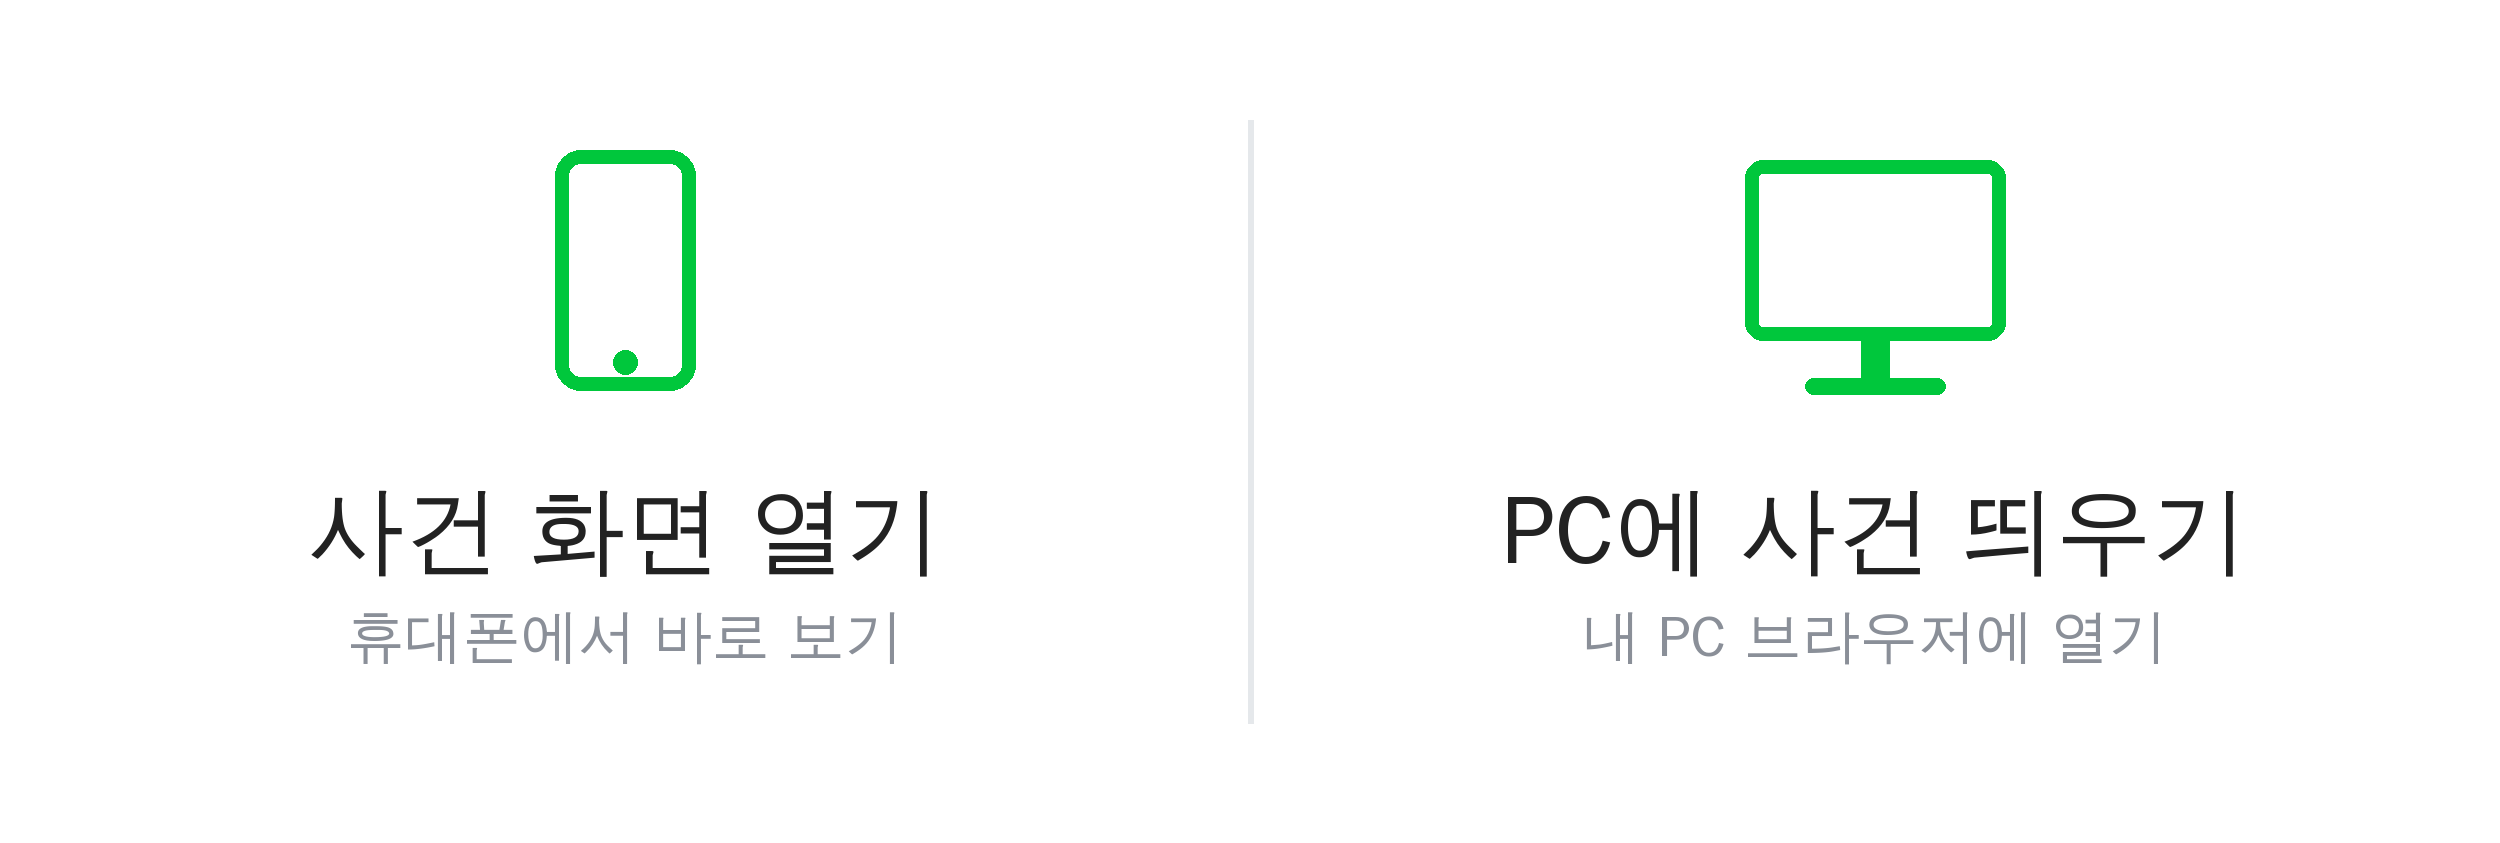
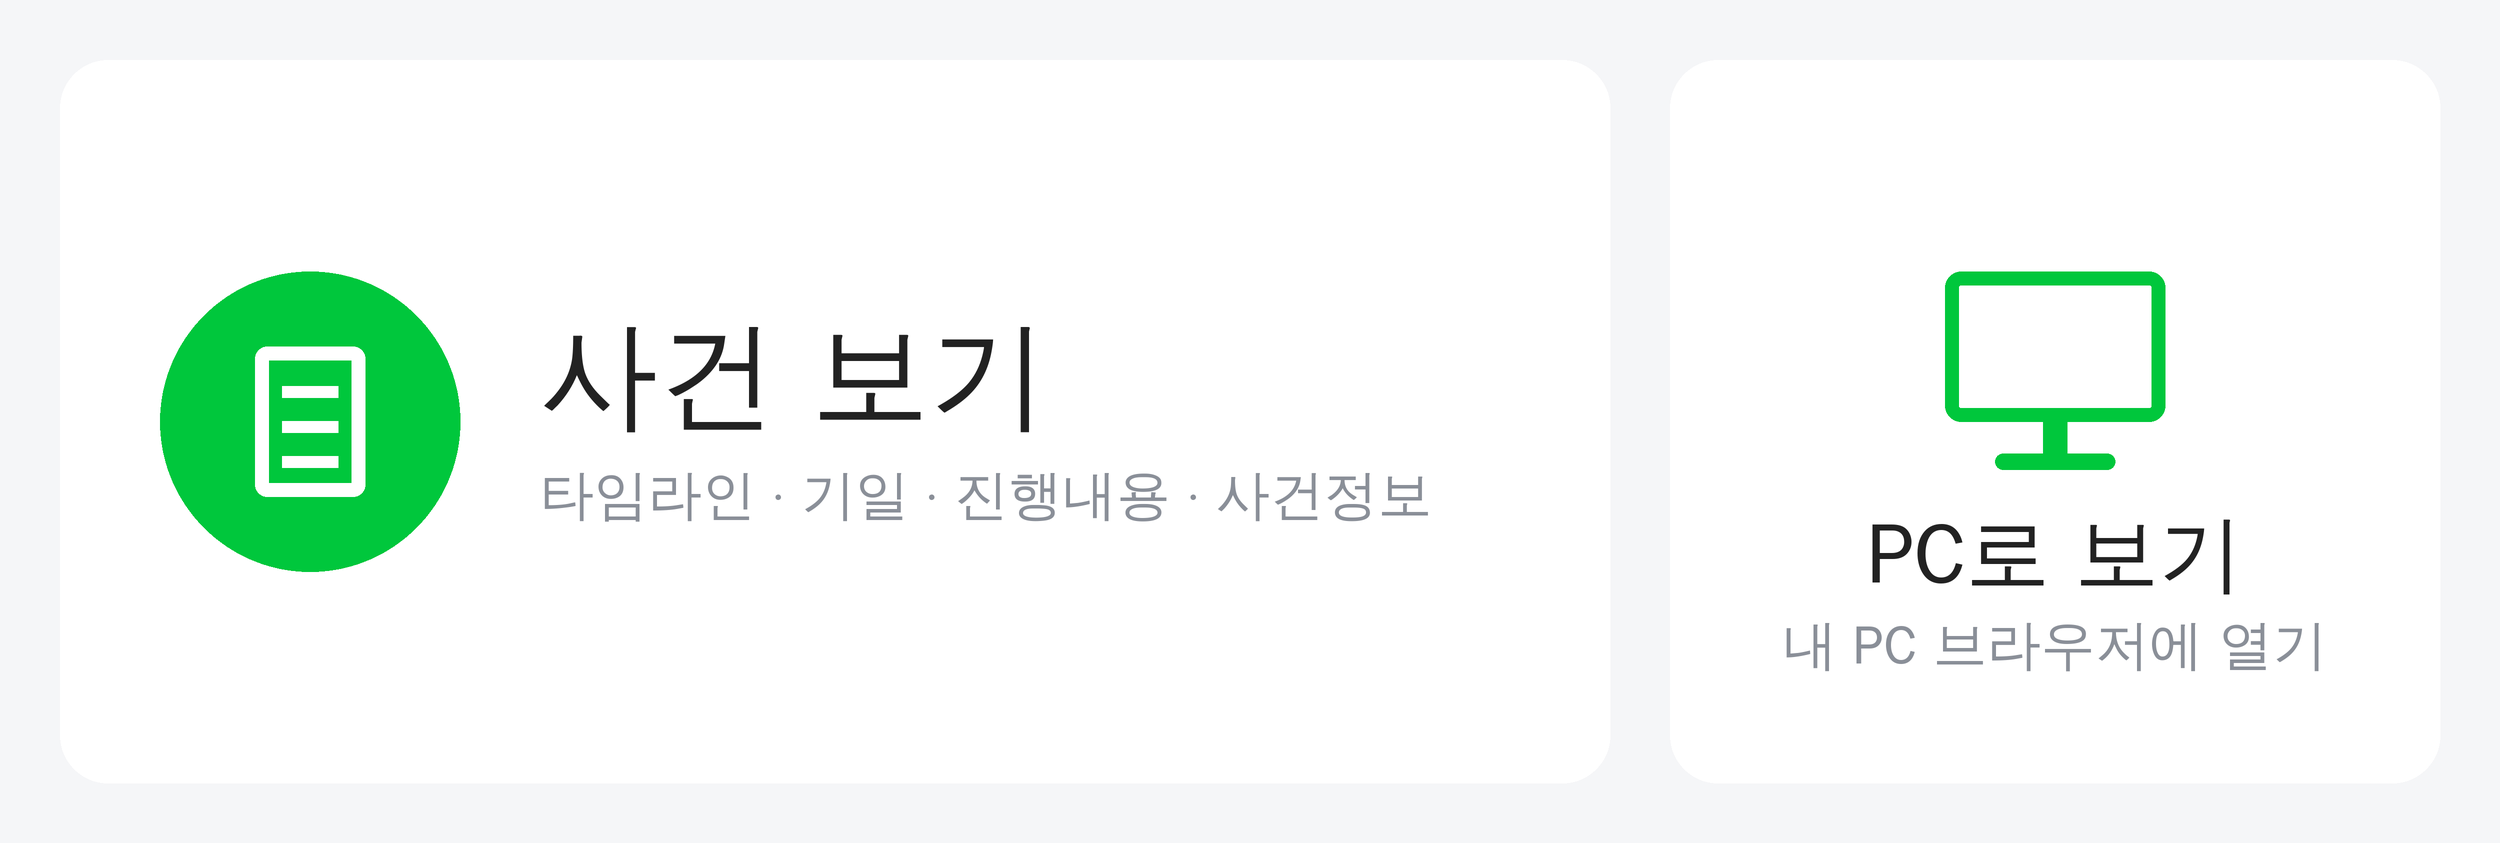
운영 봇 메뉴 다듬기: [📱 사건 보기] 넓게 + [💻 PC로 보기] 작게, --replace
Claude-Session: https://claude.ai/code/session_01559ZhRGnAMHyFaf9QKzrAt

diff --git a/tools/works/set_prod_richmenu.py b/tools/works/set_prod_richmenu.py
@@ -2,13 +2,15 @@
 """운영 봇(실제 사건방에 들어가 있는 봇)에 사건 화면 리치 메뉴를 거는 스크립트 (사무실 PC에서 실행).
 
 메뉴 두 칸 (방에 글이 남지 않음):
-  [사건 화면 열기]   uri      → 휴대폰: 그 방 사건 화면이 웍스 안에서 열림
-  [PC에 사건 띄우기] postback → 누른 사람 PC의 '정서 사건 도우미'가 브라우저에 그 방 사건 화면을 엶
+  [📱 사건 보기] uri      → 휴대폰: 그 방 사건 화면이 웍스 안에서 열림 (넓은 칸)
+  [💻 PC로 보기] postback → 누른 사람 PC의 '정서 사건 도우미'가 브라우저에 그 방 사건 화면을 엶
+  웍스는 봇마다 메뉴 한 벌이라 휴대폰·PC에 같은 메뉴가 뜸
 
 사용법 (명령 프롬프트, 이 파일·set_test_menu.py·richmenu_prod.png 가 같은 폴더):
     python set_prod_richmenu.py           # 확인만: 운영 봇 이름, 지금 걸린 고정 메뉴·리치 메뉴를 보여 줌 (아무것도 안 바꿈)
     python set_prod_richmenu.py --run     # 운영 봇에 리치 메뉴 등록 + 기본 메뉴로 지정 → 모든 사건방에 보임
     python set_prod_richmenu.py --delete  # 이 스크립트가 만든 리치 메뉴만 지우기 (되돌리기)
+    python set_prod_richmenu.py --replace # 기존 메뉴를 지우고 새 그림·이름으로 다시 등록
 
 운영 봇 ID 는 works-sync 가 쓰는 ~/.config/naverworks/credentials.json 의 bot_id 를 씁니다.
 주의: 고정 메뉴와 리치 메뉴는 둘 중 하나만 보입니다. 운영 봇에 고정 메뉴가 있으면 --run 전에 알려 주세요.
@@ -33,10 +35,10 @@ BODY = {
     "richmenuName": NAME,
     "size": {"width": 2500, "height": 843},
     "areas": [
-        {"bounds": {"x": 0, "y": 0, "width": 1250, "height": 843},
-         "action": {"type": "uri", "label": "📱 사건 화면 열기", "uri": WOFF + "?view=timeline"}},
-        {"bounds": {"x": 1250, "y": 0, "width": 1250, "height": 843},
-         "action": {"type": "postback", "label": "💻 PC에 사건 띄우기", "data": "room-case"}},
+        {"bounds": {"x": 0, "y": 0, "width": 1640, "height": 843},
+         "action": {"type": "uri", "label": "📱 사건 보기", "uri": WOFF + "?view=timeline"}},
+        {"bounds": {"x": 1640, "y": 0, "width": 860, "height": 843},
+         "action": {"type": "postback", "label": "💻 PC로 보기", "data": "room-case"}},
     ],
 }
 
@@ -86,7 +88,13 @@ def check(tok):
 def main():
     tok = token(load_cred())
     menus = check(tok)
-    if "--run" in sys.argv:
+    if "--replace" in sys.argv:
+        for x in menus:
+            if x.get("richmenuName") == NAME:
+                s, _ = req("DELETE", API + "/richmenus/%s" % x["richmenuId"], tok)
+                print("옛 메뉴 지움:", x["richmenuId"], s)
+        menus = []
+    if "--run" in sys.argv or "--replace" in sys.argv:
         if any(x.get("richmenuName") == NAME for x in menus):
             print("이미 같은 이름의 메뉴가 있습니다. 먼저 --delete 하세요."); sys.exit(1)
         s, m = req("POST", API + "/richmenus", tok, BODY)
